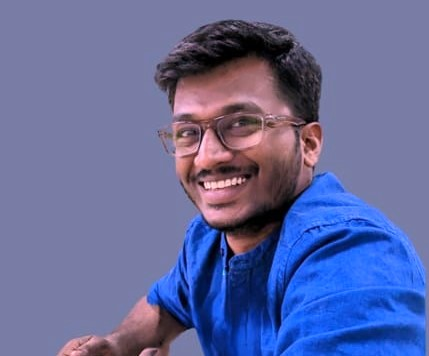
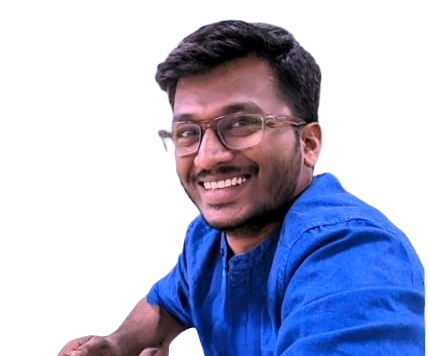
updated projects

diff --git a/src/components/about/About.jsx b/src/components/about/About.jsx
@@ -7,7 +7,7 @@ const About = () => {
         <section className={styles.container} id='about'>
             <h2 className={styles.title}>About</h2>
             <div className={styles.content}>
-                <img className={styles.aboutImage} src={getImageUrl('hero/ranganathvatti.png')} alt='ranganath-vatti' />
+                <img className={styles.aboutImage} src={getImageUrl('hero/ranganathvatti11.png')} alt='ranganath-vatti' />
                 <ul className={styles.aboutItems}>
                     <li className={styles.aboutItem}>
                         <img src={getImageUrl('about/cursorIcon.png')} alt='cursorIcon' />
